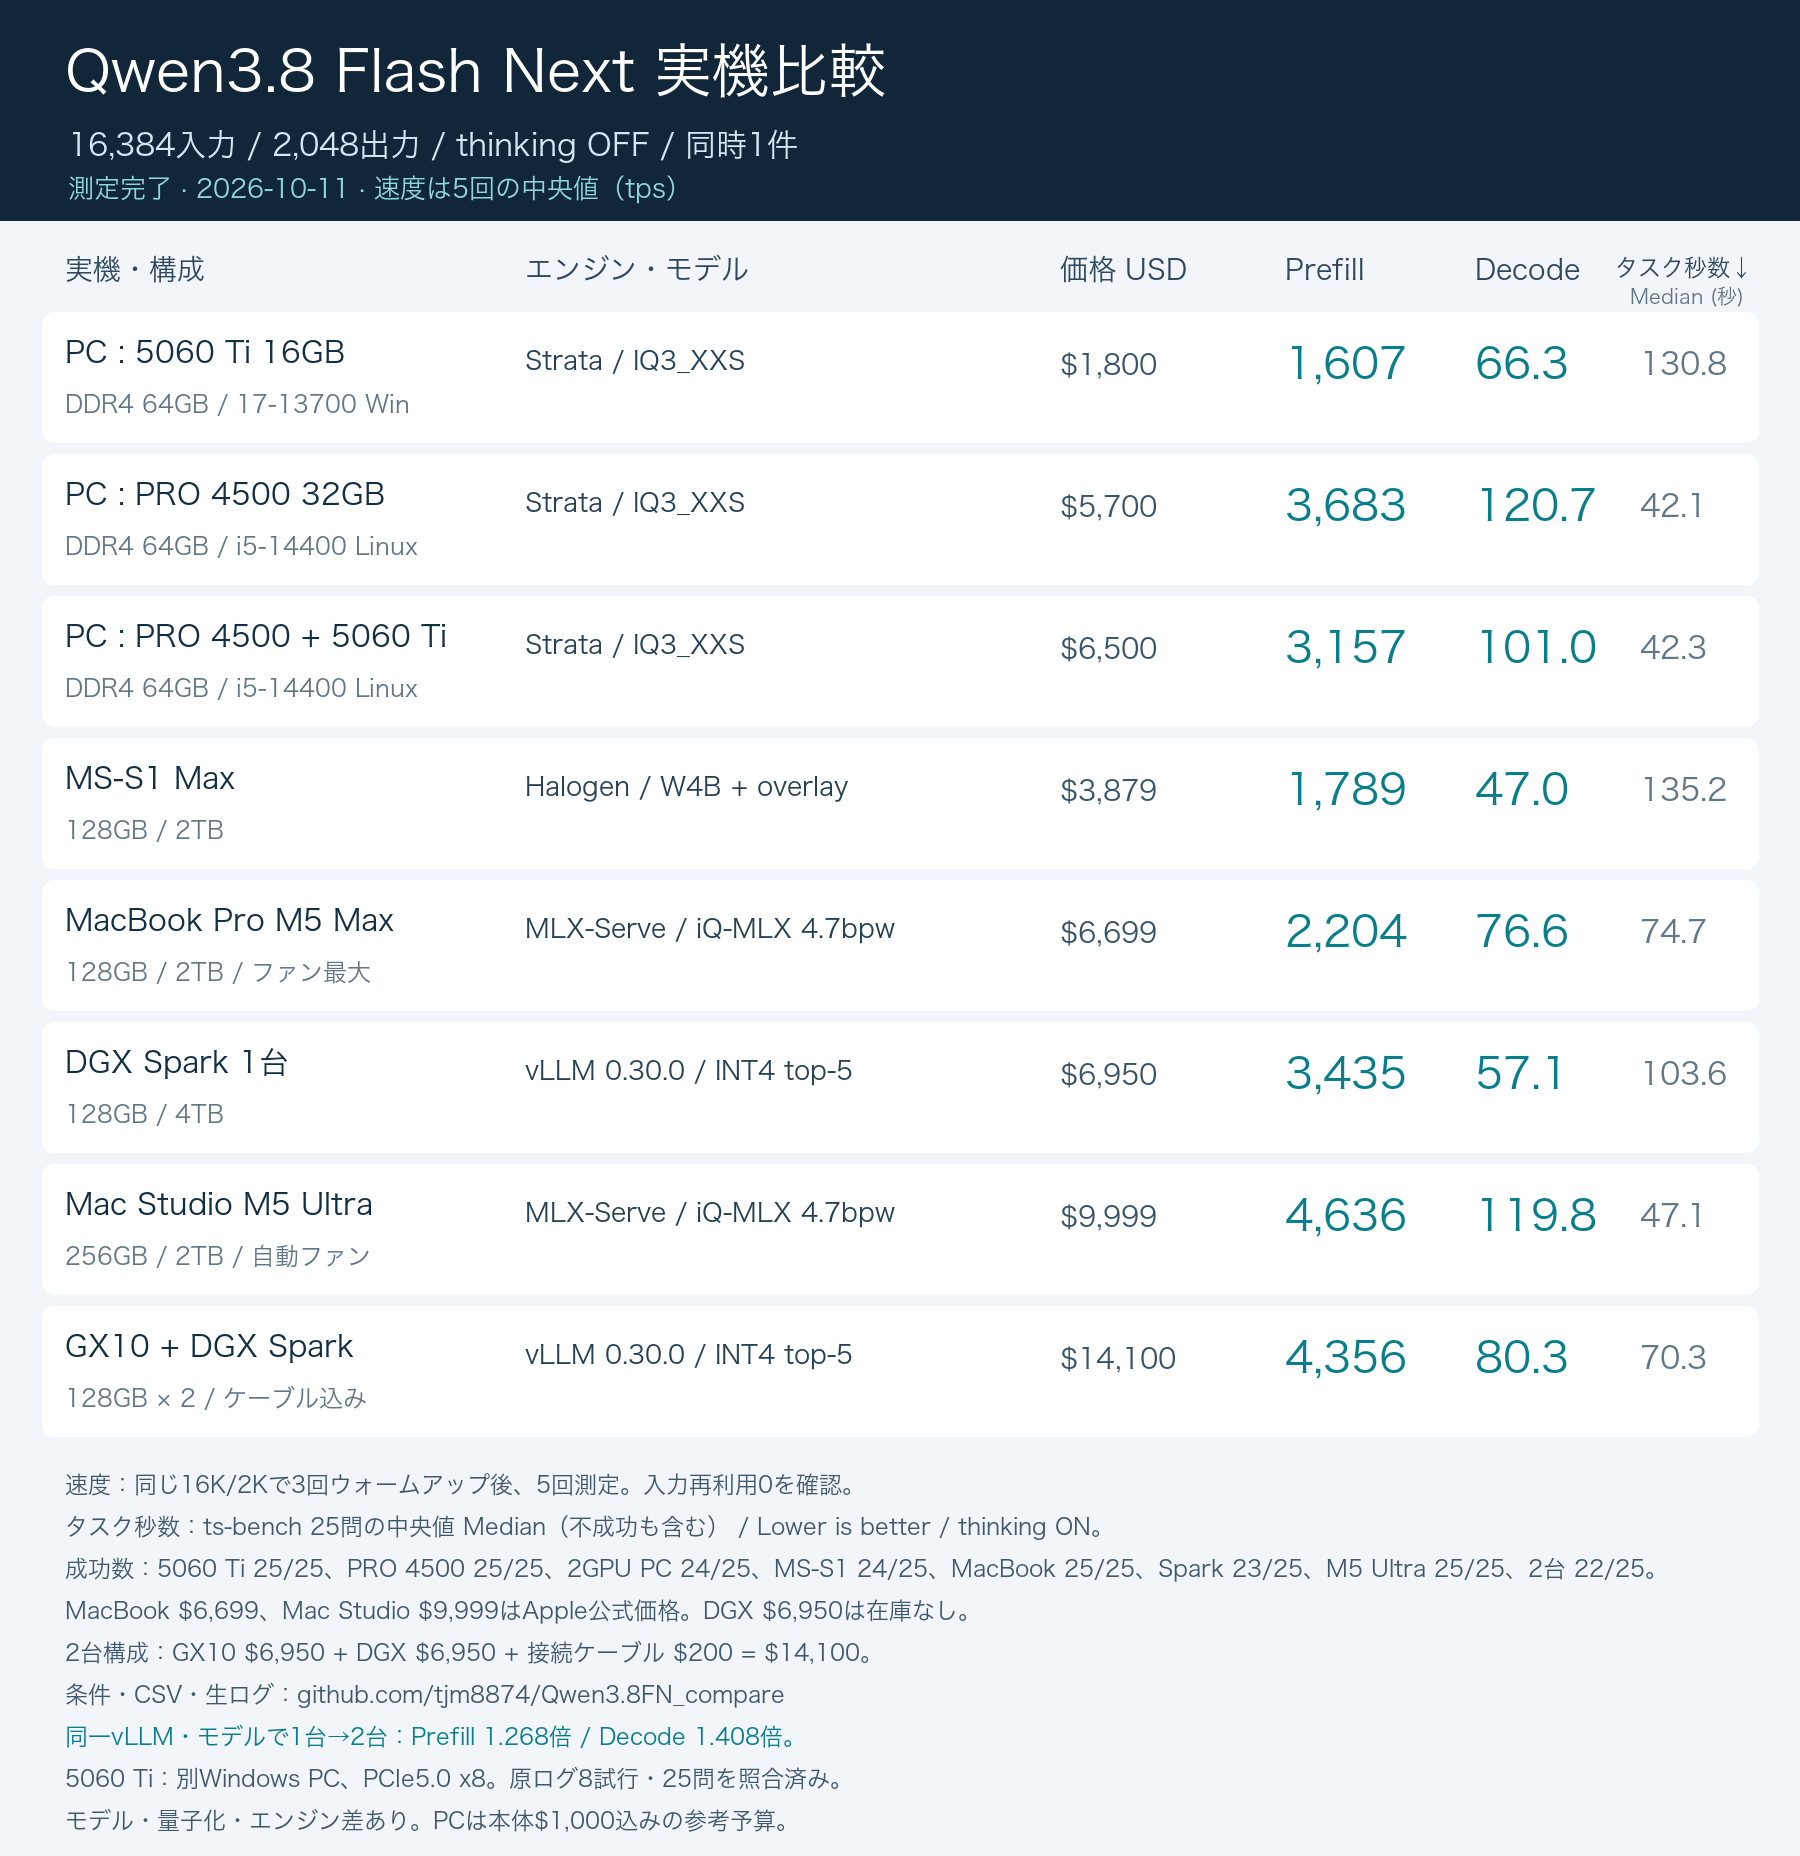
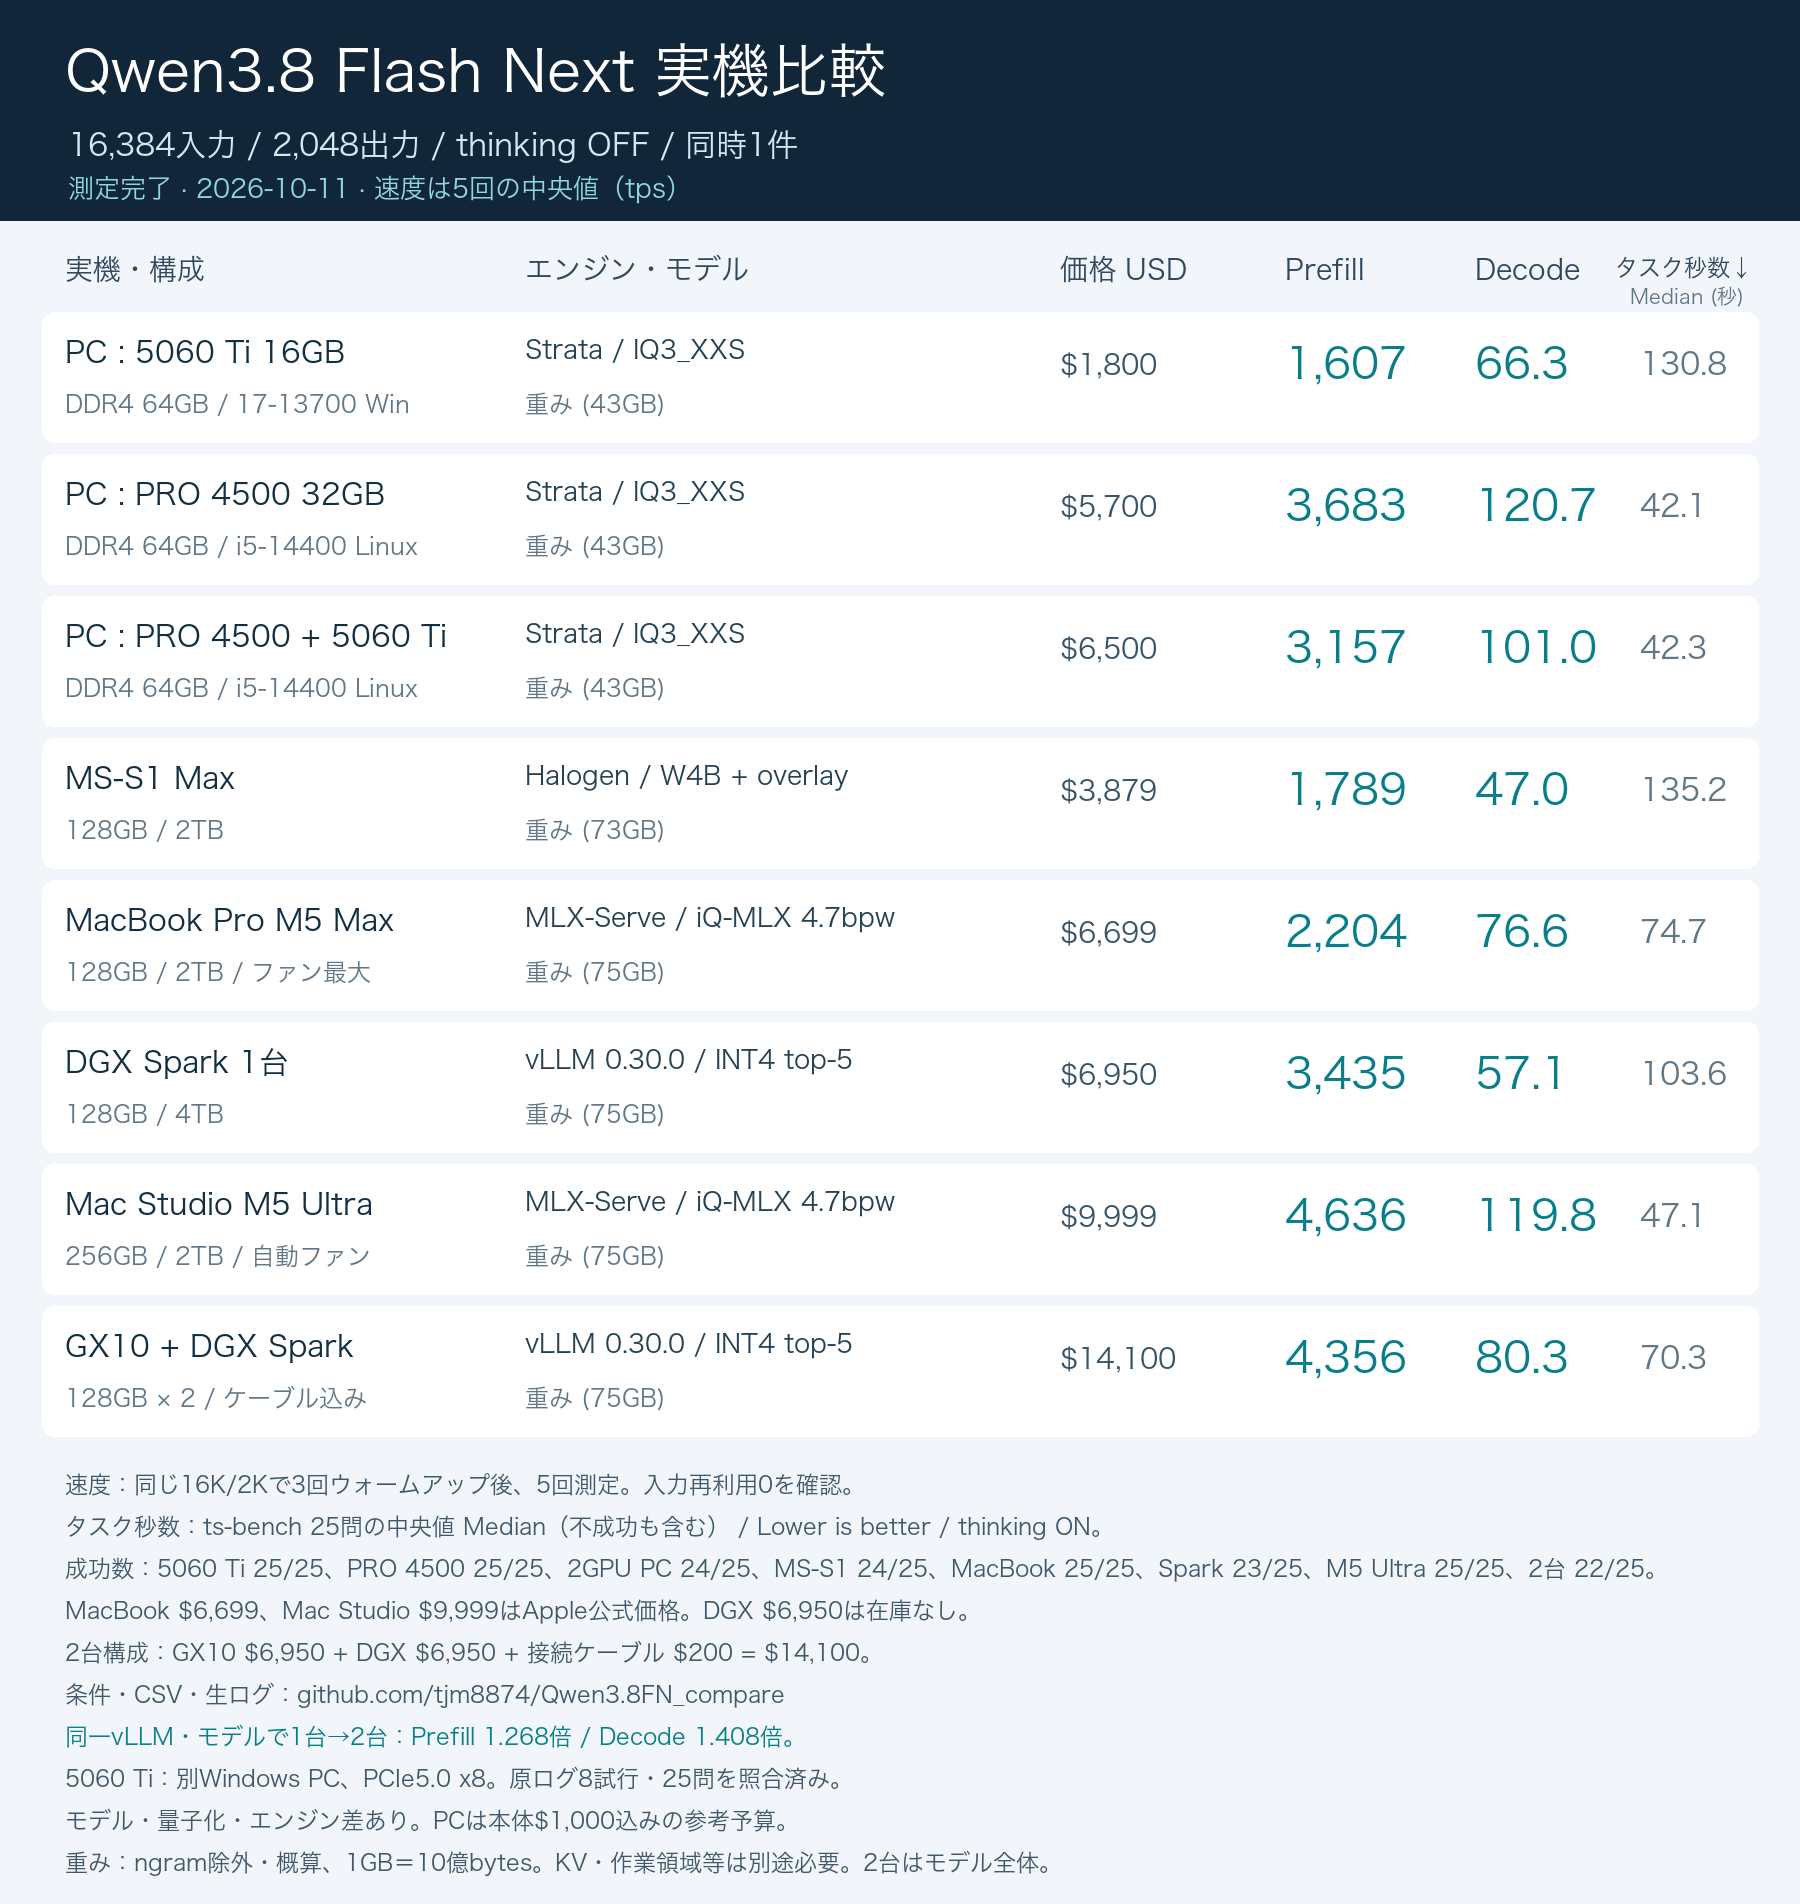
Show model weight capacity excluding disk-backed ngram tables

diff --git a/scripts/export_results.py b/scripts/export_results.py
@@ -75,6 +75,7 @@ def main():
     public.mkdir(parents=True, exist_ok=True)
     targets = json.loads((root / "data/targets.json").read_text())
     exercises = (root / "data/exercises.txt").read_text().splitlines()
+    memory = json.loads((root / "data/model-memory.json").read_text())["targets"]
     rows = []
     for target in targets:
         case = target["id"]
@@ -161,6 +162,9 @@ def main():
                "input_tokens": 16384 if summary else "", "output_tokens": 2048 if summary else "",
                "dsh_state": "complete" if evaluation else "pending", "dsh_passed": evaluation["passed"] if evaluation else "",
                "dsh_total": evaluation["total"] if evaluation else ""}
+        row["model_weight_gb_excluding_ngram"] = memory[case]["model_weight_gb_excluding_ngram"]
+        row["model_weight_display_gb"] = memory[case]["display_gb"]
+        row["model_weight_size_basis"] = memory[case]["basis"]
         row["task_seconds_mean"] = ""
         row["task_seconds_median"] = ""
         row["task_duration_metric"] = ""
@@ -221,7 +225,7 @@ def render(root, rows):
     fontpath = "/System/Library/Fonts/ヒラギノ角ゴシック W3.ttc"
     def font(size):
         return ImageFont.truetype(fontpath, size)
-    image = Image.new("RGB", (1800, 1856), "#f2f5f9")
+    image = Image.new("RGB", (1800, 1904), "#f2f5f9")
     draw = ImageDraw.Draw(image)
     draw.rectangle((0, 0, 1800, 220), fill="#112638")
     draw.text((65, 40), "Qwen3.8 Flash Next 実機比較", font=font(58), fill="white")
@@ -238,7 +242,8 @@ def render(root, rows):
         name, recipe, detail = LABELS[row["target"]]
         draw.text((65, y + 24), name, font=font(30), fill="#122e42")
         draw.text((65, y + 79), detail, font=font(24), fill="#617687")
-        draw.text((525, y + 35), recipe, font=font(26), fill="#264154")
+        draw.text((525, y + 24), recipe, font=font(26), fill="#264154")
+        draw.text((525, y + 79), f"重み ({row['model_weight_display_gb']}GB)", font=font(24), fill="#617687")
         price = f"${row['price_usd']:,.0f}" if row["price_usd"] is not None else "確認中"
         draw.text((1060, y + 38), price, font=font(28), fill="#38546a")
         for x, key in [(1285, "prefill_tps_median"), (1475, "decode_tps_median")]:
@@ -264,6 +269,7 @@ def render(root, rows):
     windows_note = "5060 Ti：別Windows PC、PCIe5.0 x8。原ログ8試行・25問を照合済み。" if windows["speed_evidence"] == "raw_logs_validated" else "5060 Ti：別Windows PCの提供集計、PCIe5.0 x8。原ログは添付後に照合。"
     draw.text((65, 1766), windows_note, font=font(23), fill="#40586b")
     draw.text((65, 1808), "モデル・量子化・エンジン差あり。PCは本体$1,000込みの参考予算。", font=font(23), fill="#40586b")
+    draw.text((65, 1850), "重み：ngram除外・概算、1GB＝10億bytes。KV・作業領域等は別途必要。2台はモデル全体。", font=font(23), fill="#40586b")
     output = root / "images/comparison-progress.png"
     output.parent.mkdir(parents=True, exist_ok=True)
     image.save(output)

diff --git a/README.md b/README.md
@@ -27,6 +27,19 @@ Mac Studio M5 UltraはMLX-Serve 26.10.1・iQ-MLX 4.7bpwでPrefill中央値4,635.
 
 ![全8構成の実機比較](images/comparison-progress.png)
 
+## ngramを除くモデル重みの容量
+
+画像の「重み (xxGB)」は、SSDへ置くPLE／ngram lookup tableを除いたモデル重みの容量目安です。**1GB＝10億バイト**で、GiB表示のエンジンログはGBへ換算して丸めています。搭載RAMの最低容量や、実行時の総メモリ使用量を示すものではありません。KVキャッシュ・作業領域・CUDA graph・追加ドラフト・GPU expert cacheの複製・OSのページキャッシュなどは別途必要です。SSD上のngramも、アクセスしたページがRAMにキャッシュされる場合があります。
+
+| エンジン・モデル | ngram除外の容量目安 | 画像表記 | 根拠 |
+|---|---:|---:|---|
+| Strata／IQ3_XXS（PC 3構成） | 約42.9GB | (43GB) | 各ロードログの39.97GiBを換算 |
+| Halogen／W4B＋overlay | 約73.0GB | (73GB) | ロード後にRAMへ固定された重み68.0GiB。lookup table47.7GiBは除外 |
+| MLX-Serve／iQ-MLX 4.7bpw（Mac 2構成） | 約75.3GB | (75GB) | 固定モデルのsafetensorsテンソル容量。独立ngram_table.bin約32.0GBは除外 |
+| vLLM／INT4 top-5（DGX 単体・2台） | 約75.2GB | (75GB) | 固定モデル70個のsafetensorsテンソル容量。独立FP8 PLE表約51.2GBは除外 |
+
+MLXとvLLMの値は保存モデルの重み容量であり、ロード時の省略や変換・追加ドラフトによる差は含めません。2台構成もモデル全体の容量です。各rankへ分割・複製される範囲と実行時の追加領域があるため、単純に2で割って各ノードの必要メモリとすることはできません。[計算根拠](data/model-memory.json)を保存しています。
+
 ## 所有者の意見
 
 2026年10月11日時点の所有者の見解です。
